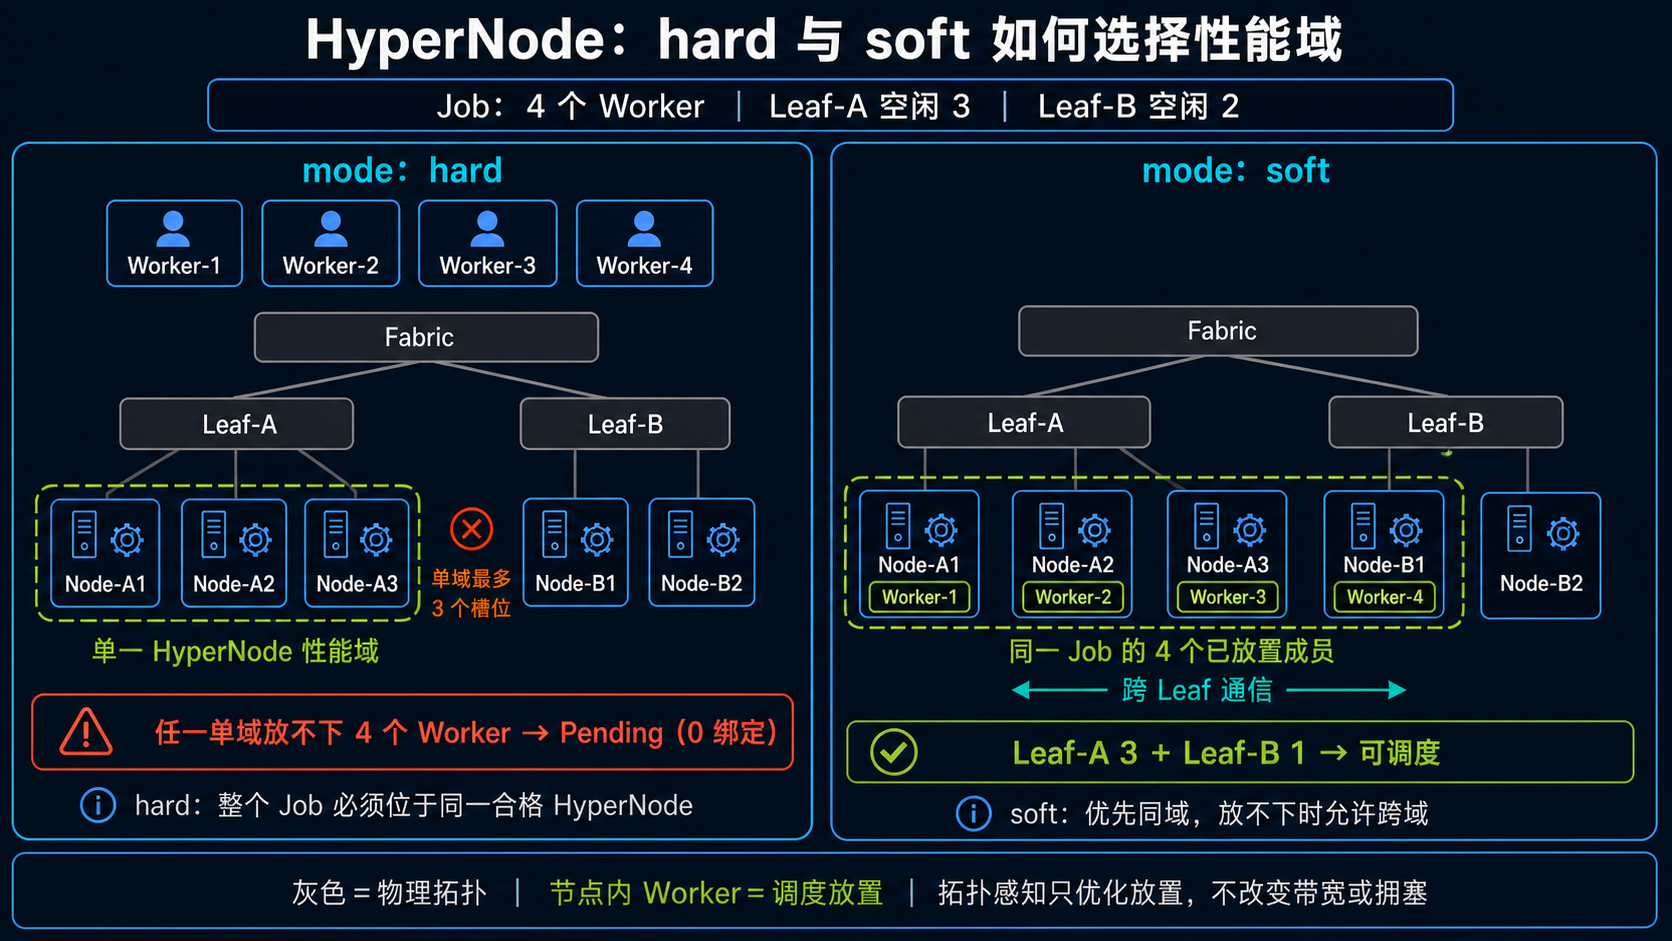
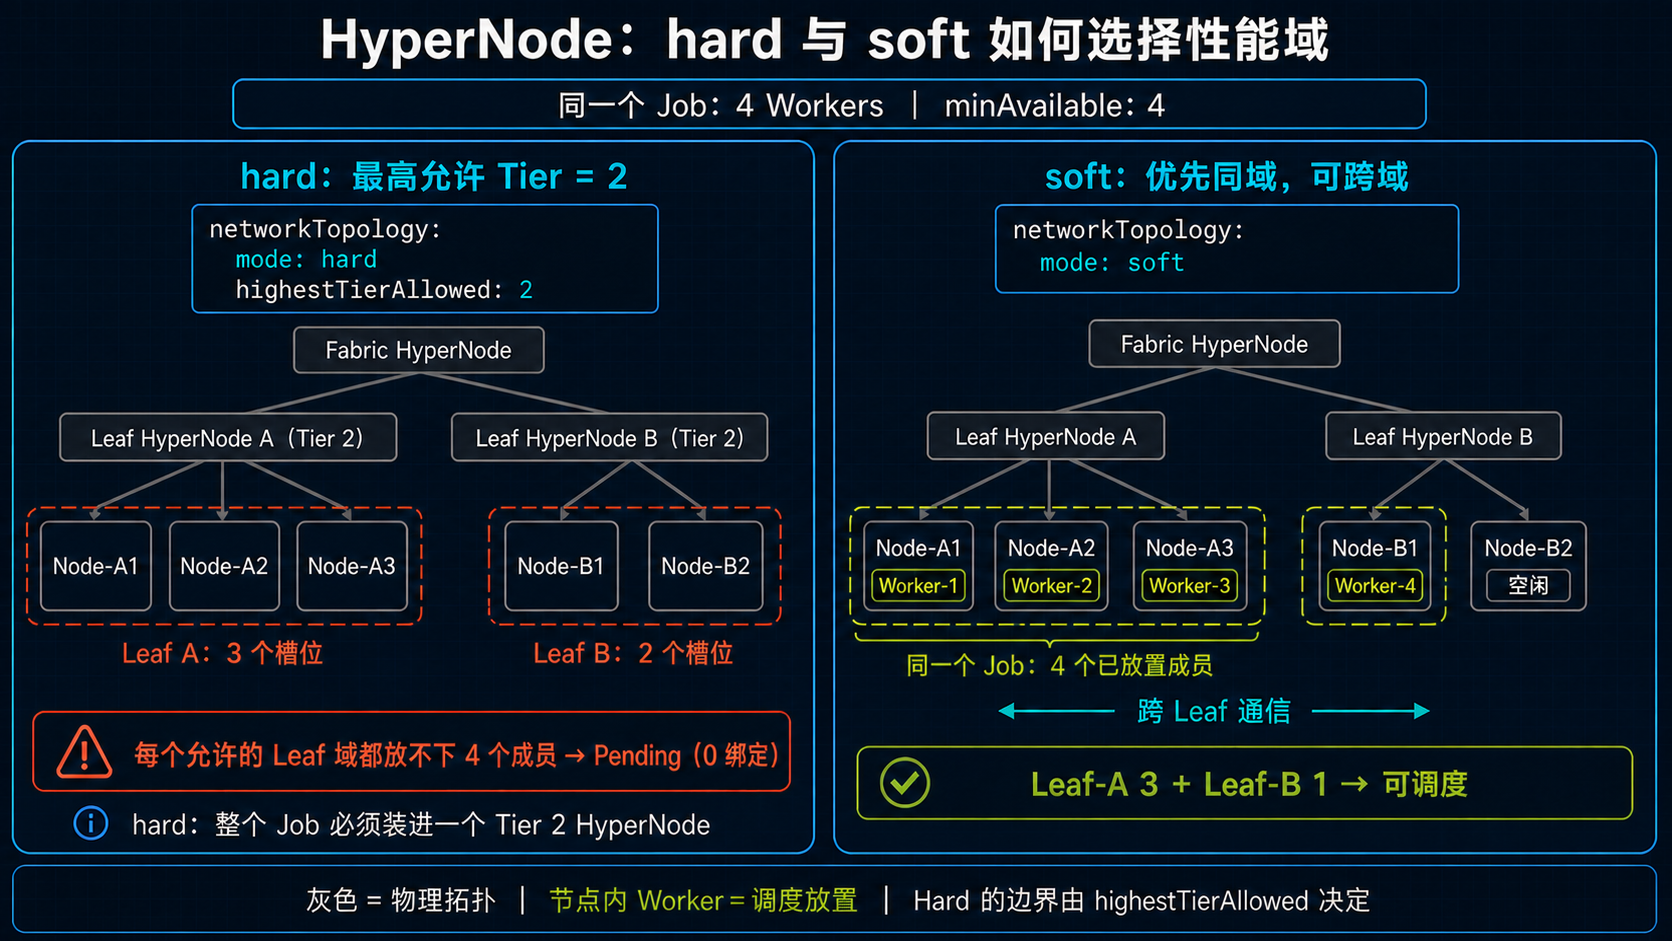
clarify HyperNode hard soft semantics

Changed region(s): [[0.0, 0.0, 0.9952, 1.0], [0.8397, 0.0616, 0.8708, 0.0925]]

diff --git a/一文搞懂 Volcano：Kubernetes 为什么还需要一个 AI 调度器？.md b/一文搞懂 Volcano：Kubernetes 为什么还需要一个 AI 调度器？.md
@@ -360,6 +360,8 @@ Fabric
 - `hard`：整个 Job 或子组必须放进同一个符合最高 Tier 限制的 HyperNode 性能域，找不到能容纳它的域就继续 Pending；
 - `soft`：尽量把整个 Job 放进同一个更近的拓扑域，实在放不下时允许跨域。
 
+不要把 `hard` 简化理解成“永远不能跨 Leaf”。边界由 `highestTierAllowed` 决定：图 5 的示例把 Leaf HyperNode 定为 Tier 2，并设置 `highestTierAllowed: 2`，所以整个 Job 只能装进 Leaf-A 或 Leaf-B 其中之一；两个 Leaf 分别只有 3 和 2 个槽位，因而 Pending。若允许到更高层的 Fabric HyperNode，Hard 仍要求整个 Job 位于同一个合格 HyperNode，但可能允许它分布在该父域下的多个 Leaf。
+
 一般来说：
 
 - 强同步、通信占比高的训练任务更看重局部性；
@@ -376,7 +378,7 @@ HyperNode 可以手工创建，也可以通过节点标签或 InfiniBand UFM 自
 
 ![HyperNode hard 与 soft 拓扑放置差异](assets/volcano/04-hypernode-hard-soft.png)
 
-*图 5：灰色线表示简化的物理拓扑；Node 卡片内的 Worker 标签表示实际调度放置。Hard 要求整个 Job 或子组装进同一个合格性能域，因此任一单域只有 3 个槽位时不会部分绑定；Soft 优先同域，但必要时允许按 `Leaf-A 3 + Leaf-B 1` 跨域放置，以排队时间换取通信局部性。*
+*图 5：灰色线表示简化的物理拓扑；Node 卡片内的 Worker 标签表示实际调度放置。左侧 Hard 示例将 `highestTierAllowed` 设为 2，因此每个 Tier 2 Leaf 都必须单独容纳 4 个成员，资源不足时整组 Pending。右侧 Soft 先偏好 Leaf-A，放不下时按 `Leaf-A 3 + Leaf-B 1` 跨域；它放松的是拓扑偏好，`minAvailable: 4` 的 Gang 条件仍要求 4 个成员一起完成绑定。*
 
 ## 9. Volcano 与 GPU Operator、Device Plugin 是什么关系
 
